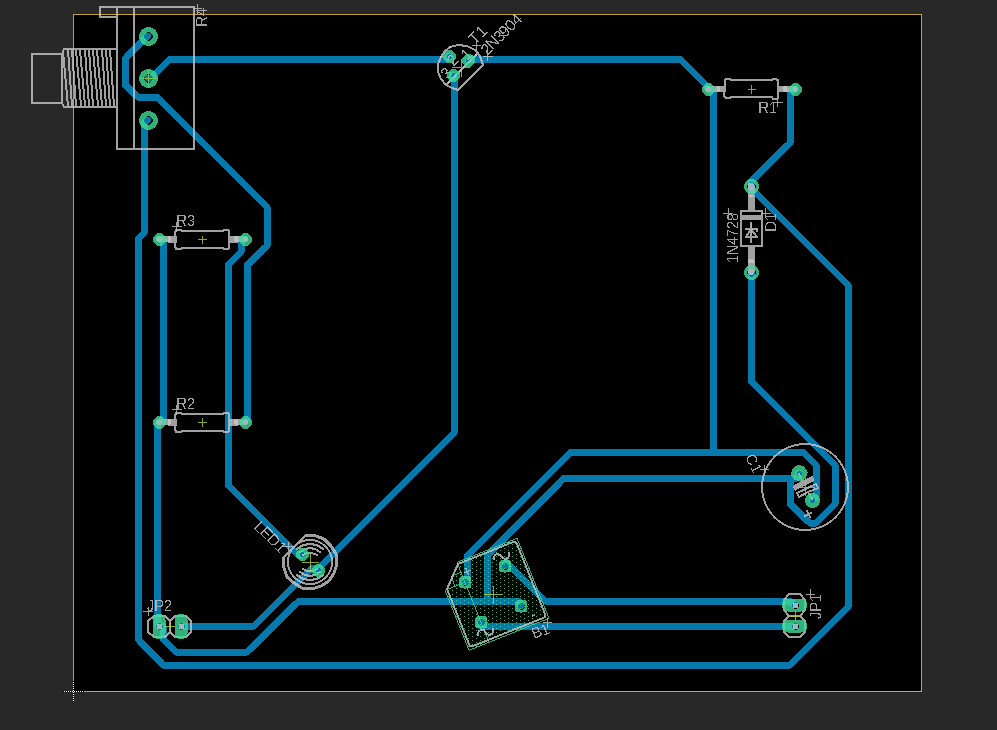
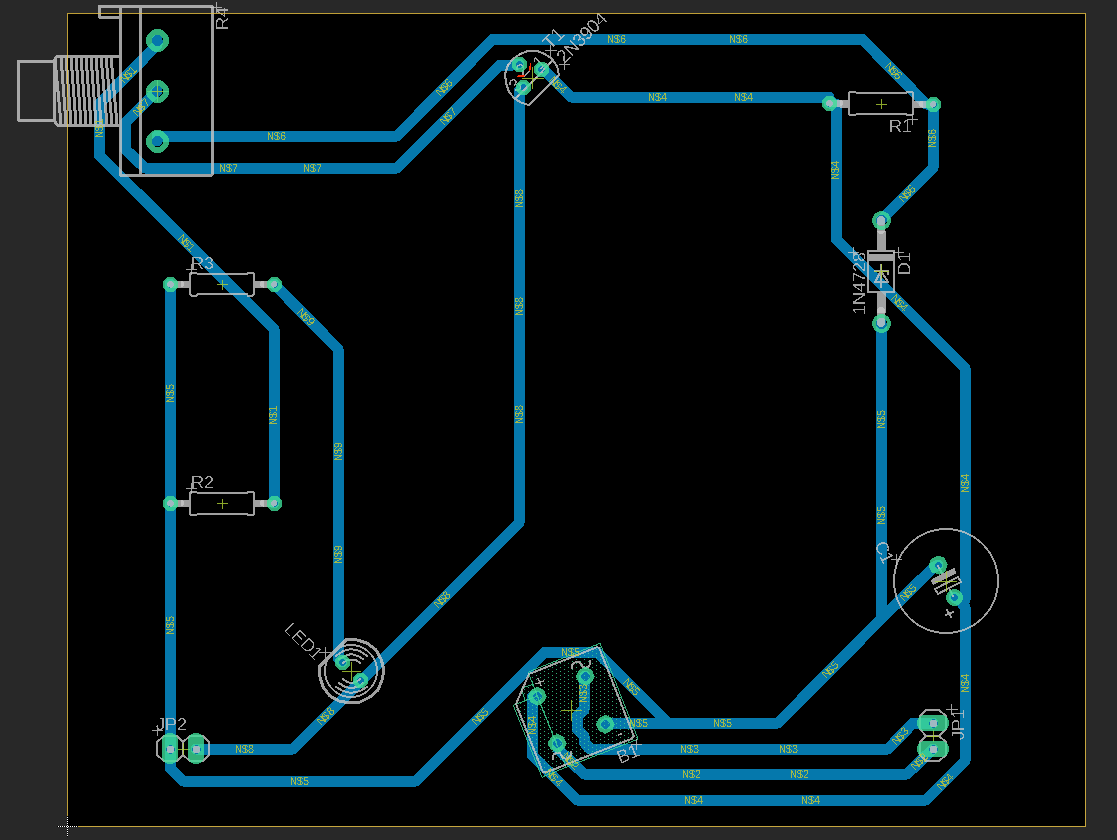
Finalização do projeto, alterações propostas pelo professor

Changed region(s): [[0.0, 0.0, 0.995, 0.9945]]

diff --git a/fonte/README.md b/fonte/README.md
@@ -12,58 +12,62 @@ Por conta disso ela deve seguir os critérios a seguir
 |---------------------------------|------------|---------|---------------------------------------------------------------------------------|
 | Transformador 127/220AC -> 15v  | 1          | R$33,15 | [aqui](https://www.baudaeletronica.com.br/transformador-trafo-1a-15v-15v.html)  |
 | Diodo Zener 1N4743 13v          | 1          | RS 0,35 | [aqui](https://www.mamuteeletronica.com.br/diodo-zener-1n4743-13v-1w-do-41)     |
-| Ponte Retificadora 10A 100V     | 1          | R$ 6,66 | [aqui](https://www.casadoresistor.com.br/ponte-retificadora-10a-1000v-zcdp0003-p4727)                    |
+| Ponte Retificadora 10A 100V     | 1          | R$ 6,66 | [aqui](https://www.casadoresistor.com.br/ponte-retificadora-10a-1000v-zcdp0003-p4727)|
 | Potenciômetro Linear 5k R       | 1          | R$ 1,09 | [aqui](https://www.baudaeletronica.com.br/potenciometro-linear-de-5k-5000.html) |
 | Transistor NPN 2N222            | 1          | R$ 0,35 | [aqui](https://www.autocorerobotica.com.br/2n222-transistor-npn)                |
 | Capacitor 470uf                 | 1          | R$ 1,00 | [aqui](https://www.tecnotronics.com.br/capacitor-eletrolitico-470uf-25v.html)   |
-| Resistor 2k R                   | 1          | R$ 0,08 | [aqui](https://www.baudaeletronica.com.br/resistor-2k-5-1-4w.html)              |
-| Resistor 300R                   | 1          | R$ 0,08 | [aqui](https://www.baudaeletronica.com.br/resistor-300r-5-1-4w.html)            |
-| Resistor 120R                   | 2          | R$ 0,08 | [aqui](https://www.baudaeletronica.com.br/resistor-120r-5-1-4w.html)            |
+| Resistor 2K5                    | 1          | R$ 0,08 | [aqui](https://www.baudaeletronica.com.br/resistor-2k-5-1-4w.html)              |
+| Resistor 1K                     | 1          | R$ 0,08 | [aqui](https://www.baudaeletronica.com.br/resistor-1k-5-1-4w.html)              |
+| Resistor 120R                   | 1          | R$ 0,08 | [aqui](https://www.baudaeletronica.com.br/resistor-120r-5-1-4w.html)            |
+| Resistor 2K                     | 1          | R$ 0,08 | [aqui](https://www.baudaeletronica.com.br/resistor-2K-5-1-4w.html)              |
 | LED Difuso Vermelho             | 1          | R$ 0,24 | [aqui](https://www.baudaeletronica.com.br/led-difuso-5mm-vermelho.html)         |
 | Total                           |            | R$43,16 |                                                                                 |
 ## Circuito no Falstad
 ![Circuito Falstad](./circuitoFonte-falstad.png)
-- Link para o circuito: http://tinyurl.com/ya6ys3xx
+- Link para o circuito: http://tinyurl.com/yaalcqcl
 
 ## Detalhes do Circuito
 ### [Video sobre Projeto](https://youtu.be/0voirnk2L9U)
+- OBS: Durante a apresentação houveram algumas mudanças
+	- Mudança do Resistor do Led para 2K (Impede o LED de queimar)
+	- Mudança do Resistor do Zener para 1K (Faz com que menos corrente seja perdida no Diodo Zener)
 
-Justificativa para os componentes da fonte
+### Justificativa para os componentes da fonte
 
-### Ponte Retificadora:
+#### Ponte Retificadora:
 - A ponte de diodos foi introduzida ao circuito para que ele aproveite, tanto o ciclo positivo quanto negativo do circuito, além de impedir a circulação da tensão reversa, que poderia queimar os componentes.
 
-### Diodo Zener (1N4743):
+#### Diodo Zener (1N4743):
 - Esse diodo foi introduzido ao circuito para estabilizar a tensão na fonte, transformando-a em corrente contínua. Seu valor de tensão de ruptura é de 13 volts, para que a tensão final, que será introduzida na saída (ou carga) seja um valor muito próximo, se não for exato, de 12V.
 
-### Capacitor (470uF):
+#### Capacitor (470uF):
 -  O capacitor serve para reduzir a variação da corrente alternada que vem do transformador. Sua capacitância, além de ser diretamente proporcional a intensidade de corrente elétrica, ela determina a velocidade de descarregamento do capacitor. Seu valor foi escolhido para deixar a corrente elétrica em um valor considerável para o regulador controlar, para chegar, no máximo, até a I = 100mA com uma margem de erro de 5% para mais.
 
-### Fonte A.C.: 
+#### Fonte A.C.: 
 - A fonte que foi implantada no circuito representa a tomada. Ela tem a tensão eficaz de 127V.
 
-### Transformador: 
+#### Transformador: 
 - O transformador implantado no circuito possui a razão de 15V/127V. O transformador recebe 127V como entrada e transforma essa tensão em 15V. As duas tensões podem ser entendidas como a tensão eficaz recebida e transformada. Essa razão pode ser entendida também como o número de espiras em cada bobina do transformador. O denominador da razão, que se refere a tensão recebida, pode ser relacionado como um múltiplo do número de espiras da 1ª bobina e, de maneira análoga, o númerador pode ser relacionado com a 2ª bobina.
 
-### Potenciômetro (5k Ohms): 
+#### Potenciômetro (5k Ohms): 
 - O potenciômetro, com a função de regular a tensão e a corrente elétrica no circuito, foi escolhido com 5k Ohms pois esse é o valor adequado para que a tensão na saída varie entre 3V e 12V.
 
-### Resistor 1 (400 Ohms): 
+#### Resistor 1 (400 Ohms): 
 - O resistor 1 foi aplicado ao circuito para proteger o diodo zener. Caso o resistor não fosse colocado, haveria a possibilidade de passar uma corrente infinita pelo diodo. Assim, o diodo queimaria. O valor do resistor é de 400 Ohms para que o diodo não queime, assim, controlando a corrente elétrica.
 
-### Resistor 2 (2500 Ohms): 
+#### Resistor 2 (2500 Ohms): 
 O resistor 2 foi aplicado ao circuito para que, quando o potenciômetro fique no máximo, a tensão na saída fique muito próximo, se não exato, da tensão mínima de saída. O valor de 2.5k Ohms foi escolhido pois é o valor mais adequado para o resistor. Esse valor permite que a tensão minima de saída seja 3V.
 
-### LED Vermelho (2V - 2.5V): 
+#### LED Vermelho (2V - 2.5V): 
 - O LED foi acrescentado ao circuito para ver se a saída do circuito está sendo alimentada com energia ou não. O LED vermelho foi escolhido devido a sua baixa tensão pois é possivel ter uma melhor visibilidade de sua luz quando o potenciômetro está regulado no mínimo.
 
-### Resistor 3 (120 Ohms): 
+#### Resistor 3 (120 Ohms): 
 - O resistor 3 foi aplicado ao circuito para proteger o LED vermelho. O valor de 120 Ohms foi escolhido para que o LED não queime com uma corrente muito alta.
 
-### Resistor 4 (120 Ohms): 
+#### Resistor 4 (120 Ohms): 
 - O resistor 4 foi aplicado ao circuito para representar a saída. O resistor apresentado possui 120 Ohms pois é a resistência mais adequada para que o circuito conceda a saída uma corrente de, no máximo, I = 100mA e uma voltagem que varia entre 3V a 12V.
 
-### Transisor NPN (2N222): 
+#### Transisor NPN (2N222): 
 - O transistor NPN foi aplicado ao circuito para que ele possa atuar como amplificador de corrente elétrica. O tipo 2N222 foi escolhido para que o transistor do circuito não queimasse com facilidade.
  
 ## EAGLE - Esquemâtico e PCB
